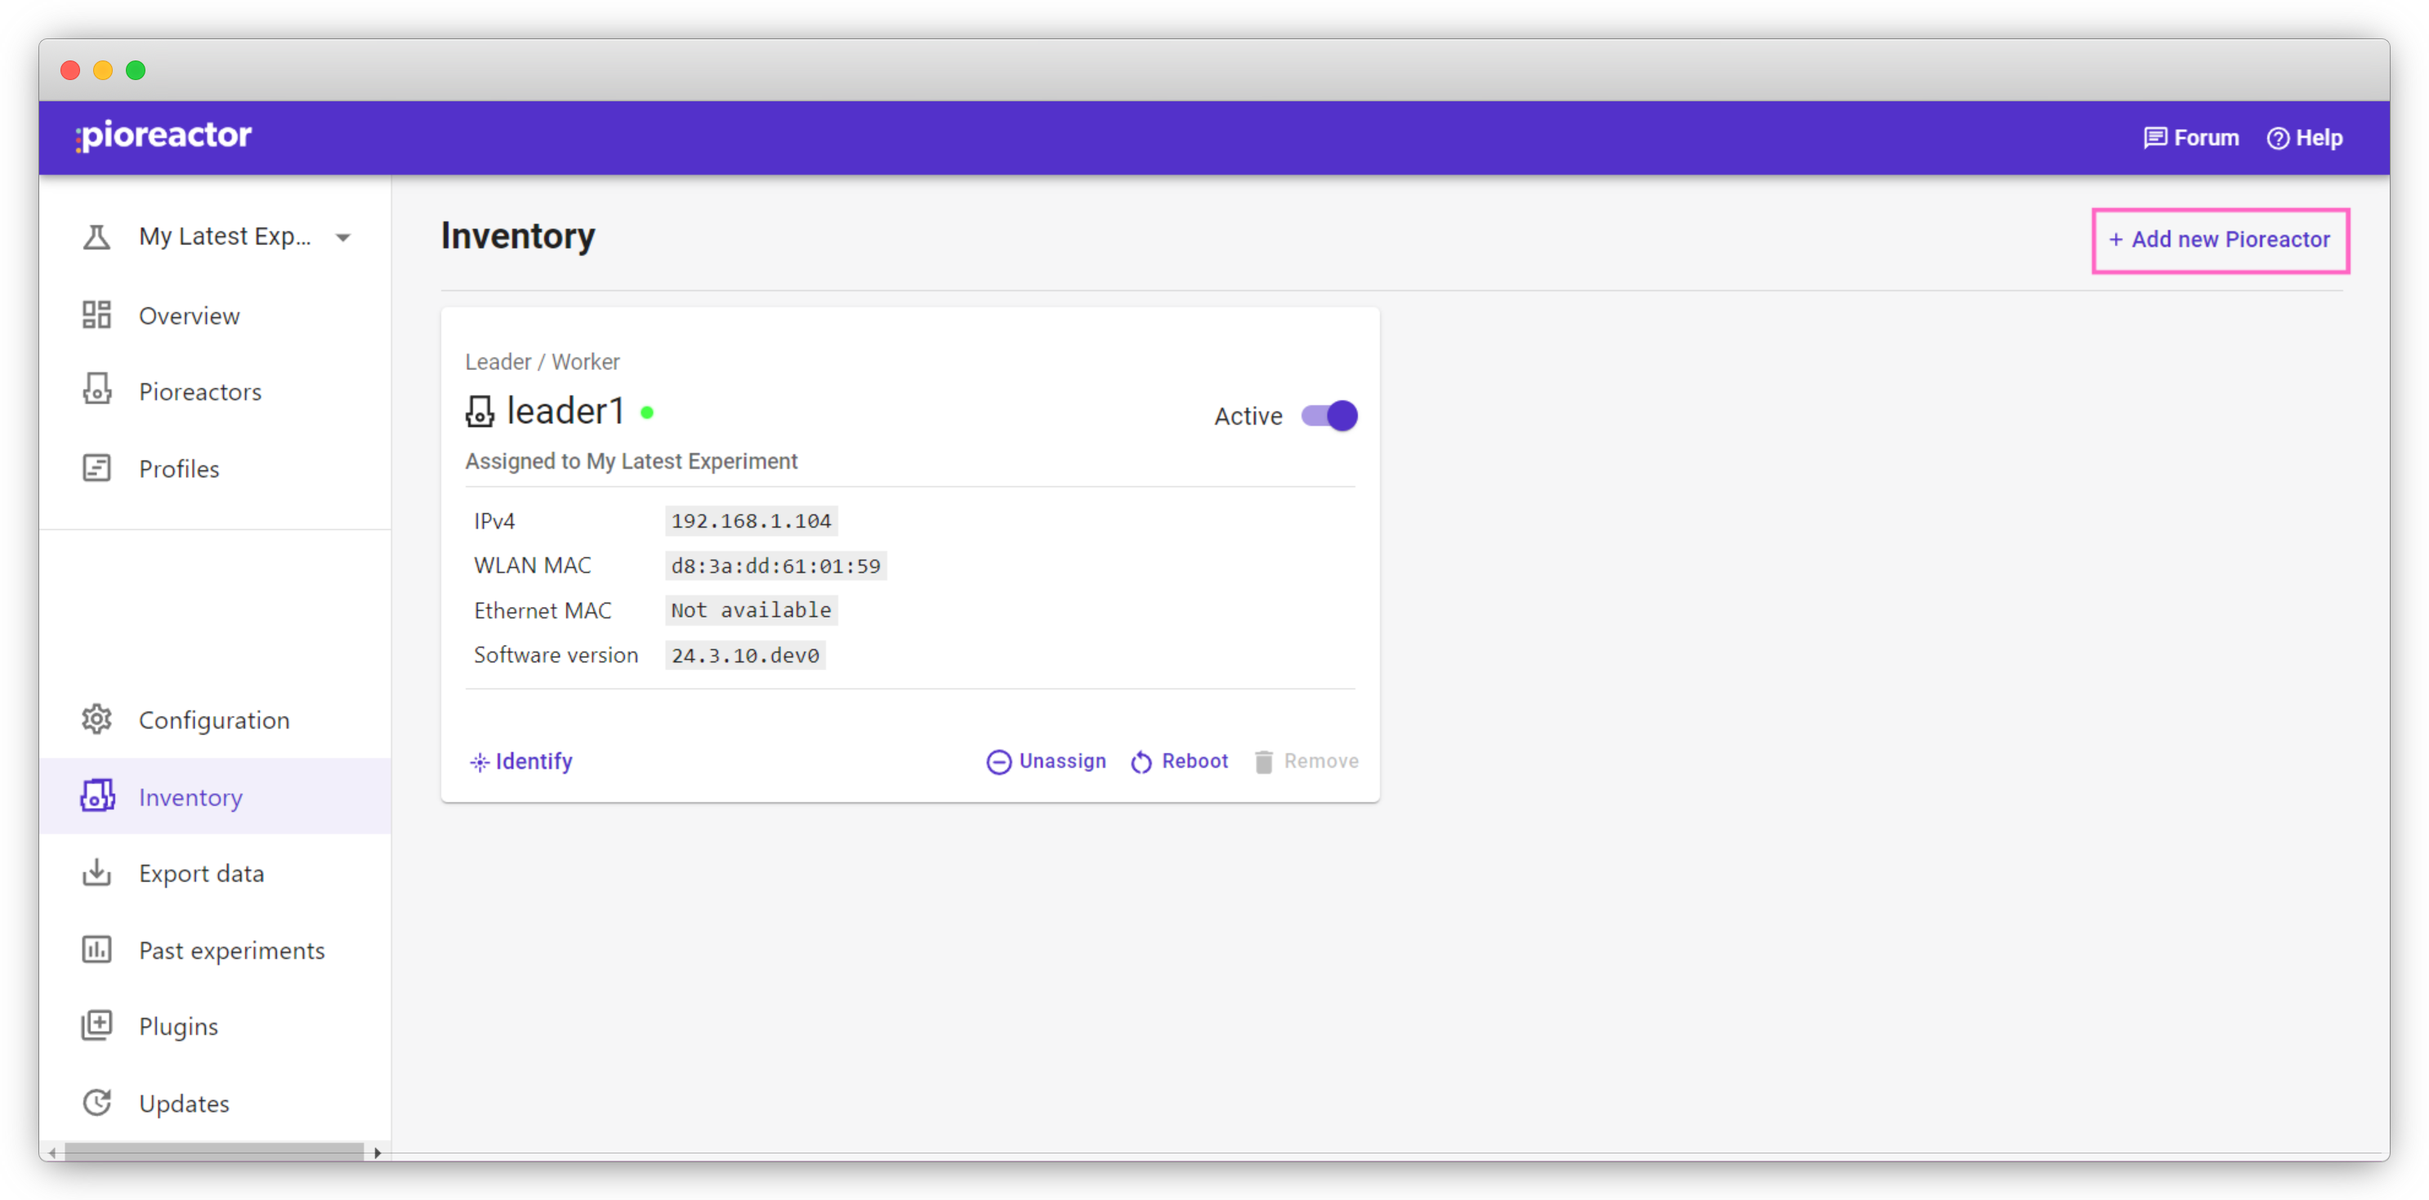
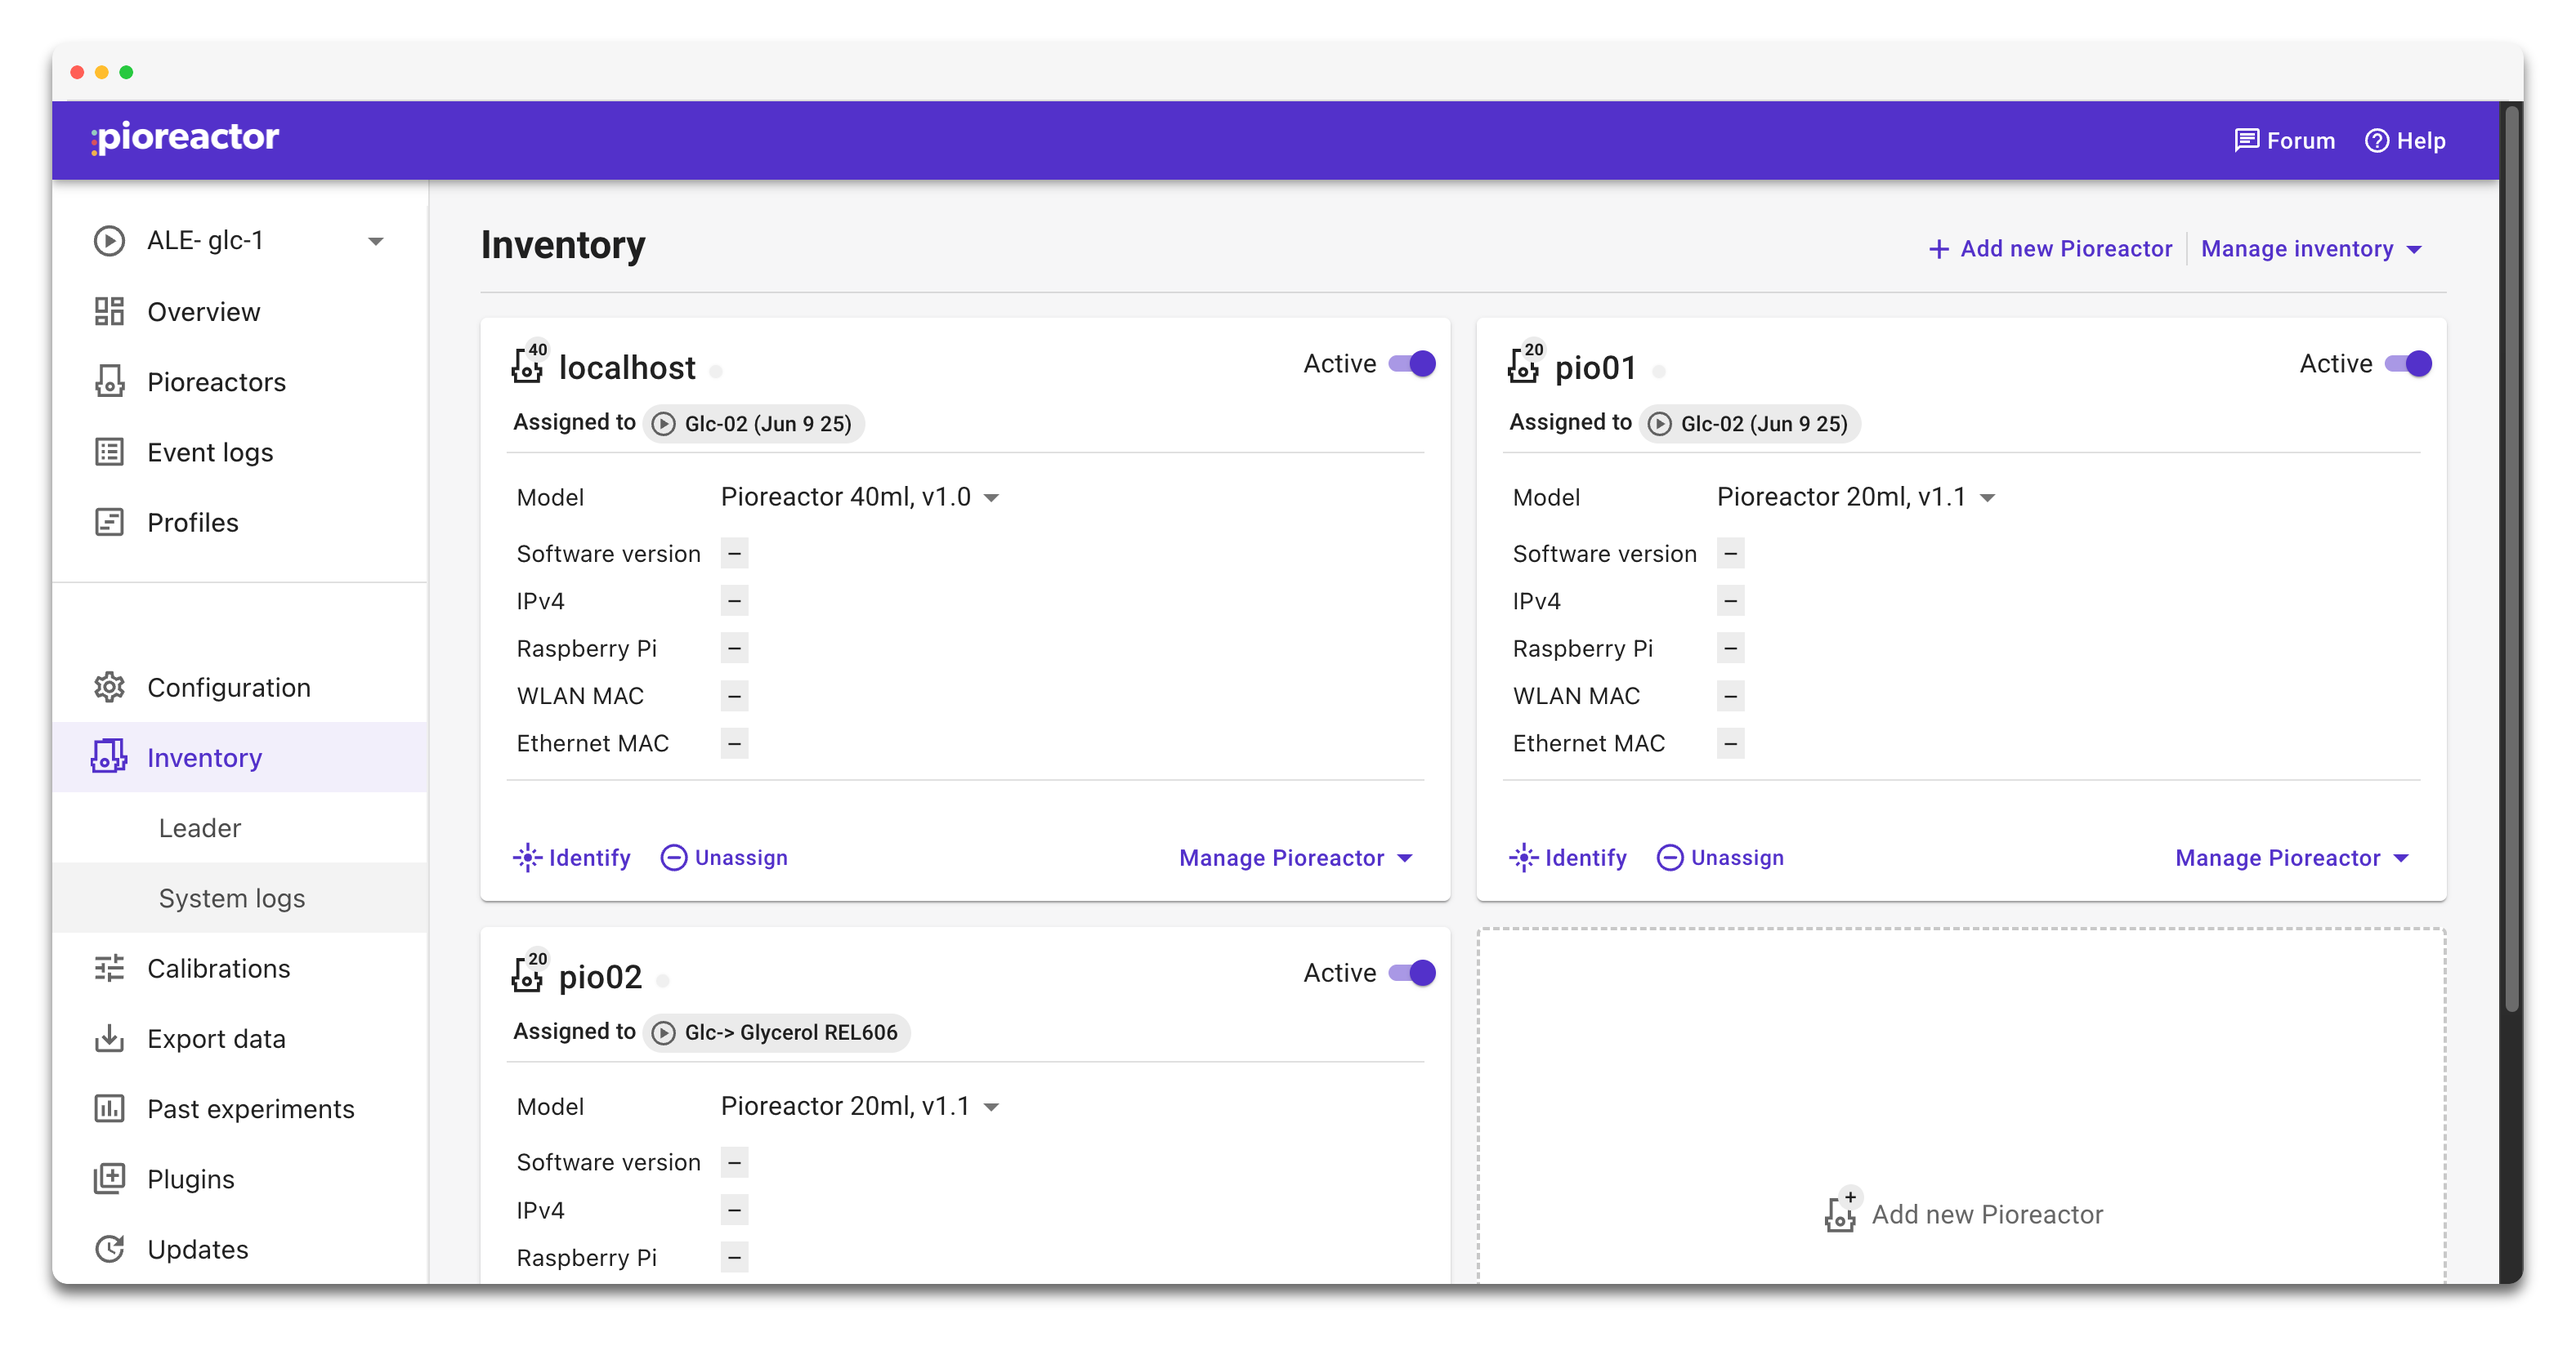
new imagery

diff --git a/user-guide/03-Extending your Pioreactor/01-cluster-management/01-create-cluster.md b/user-guide/03-Extending your Pioreactor/01-cluster-management/01-create-cluster.md
@@ -24,7 +24,7 @@ In the popup, add the name of your worker and click "Add Pioreactor".
 
 Once a new Pioreactor is added, you may need to refresh the page to see the new worker in the cluster.
 
-This Inventory tab will display metadata pertaining to each of your Pioreactors. You can use this page to identify a Pioreactor (causes the blue LED on the HAT to blink), unassign a Pioreactor from any experiment, reboot a Pioreactor, or remove it from your cluster. This page also provides a summary of which Pioreactors are assigned to which experiment, as highlighted in yellow in the image below.
+This Inventory tab will display metadata pertaining to each of your Pioreactors. You can use this page to identify a Pioreactor (causes the blue LED on the HAT to blink), unassign a Pioreactor from any experiment, reboot a Pioreactor, or remove it from your cluster. This page also provides a summary of which Pioreactors are assigned to which experiment, as shown in the image below.
 
 ![](/img/user-guide/inventory-multiple-pios.png)
 
